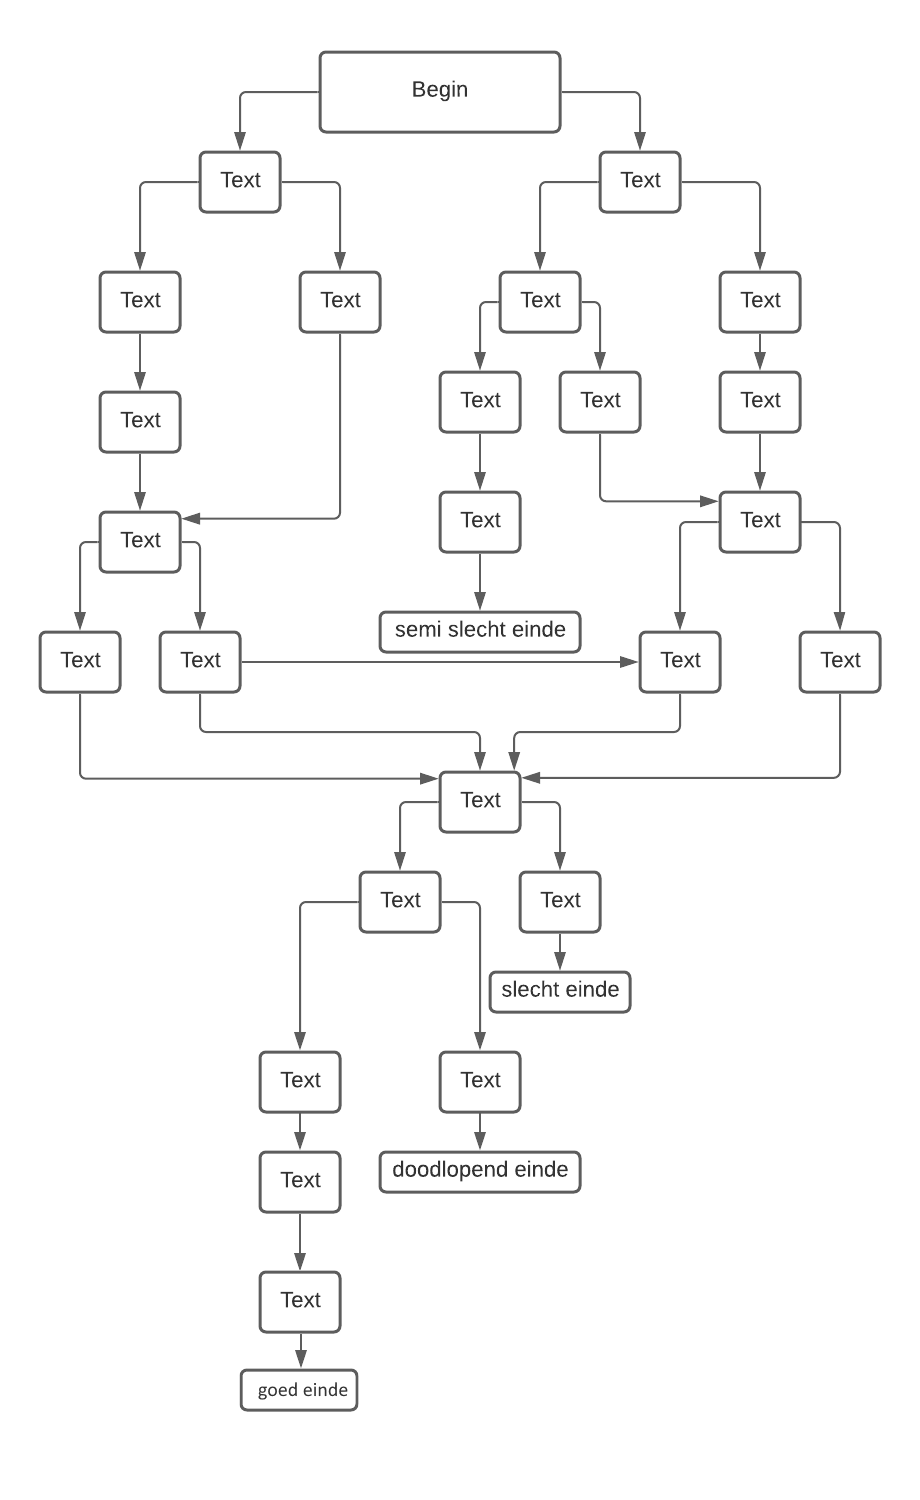
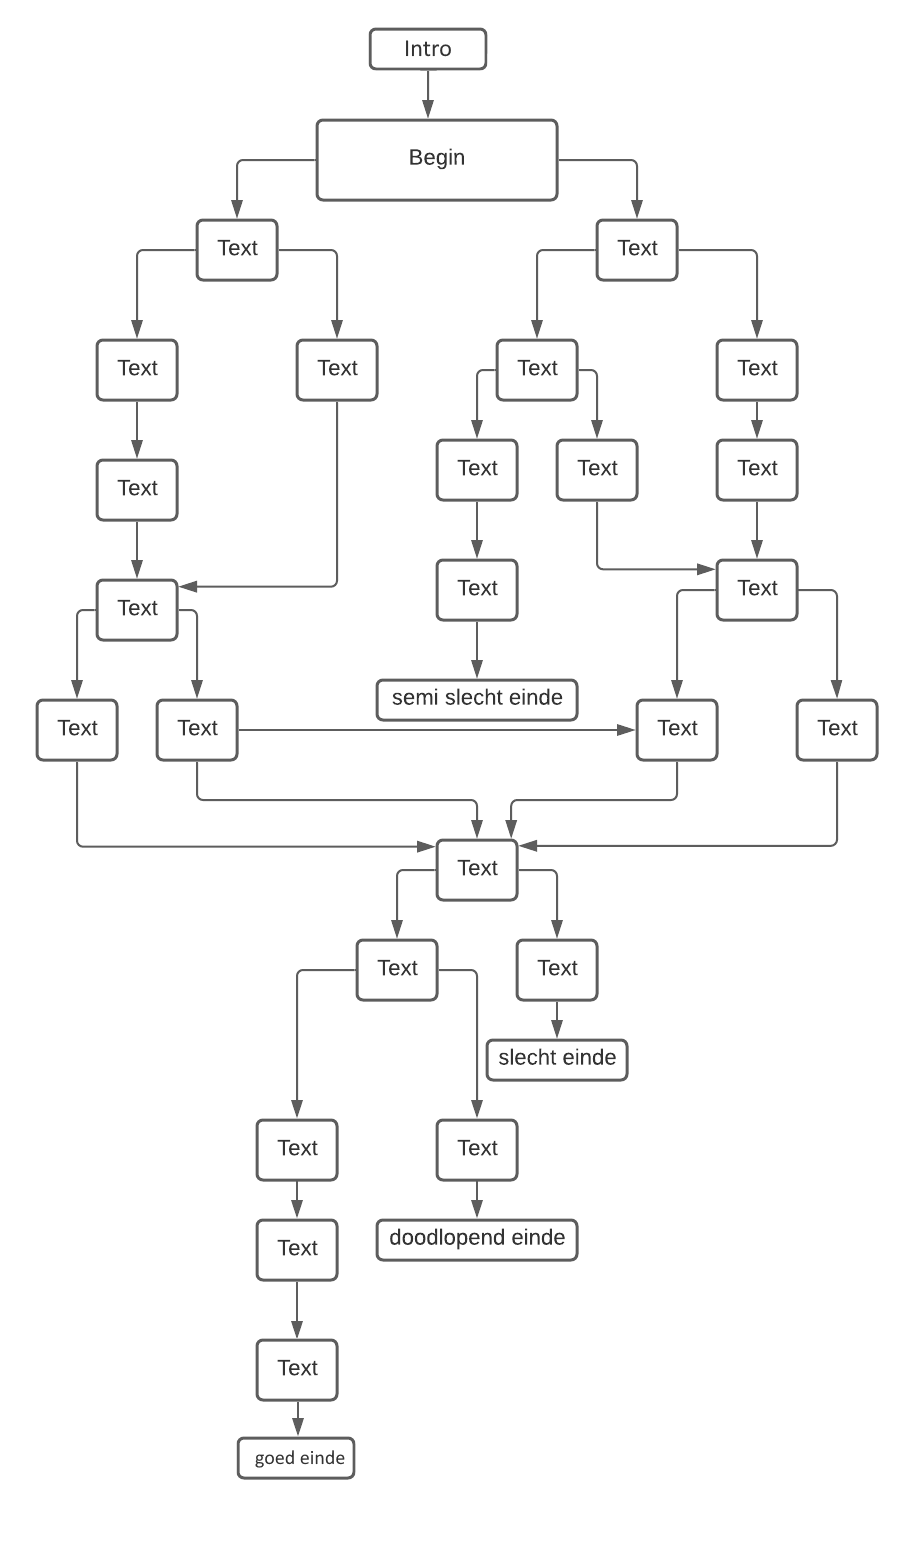
Fifth commit

Changed region(s): [[0.0304, 0.0, 0.9739, 0.9507]]

diff --git a/Beroepsopdracht.py b/Beroepsopdracht.py
@@ -10,7 +10,16 @@ Tekst3 = "Jullie stappen snel de auto in maar dan moet je snel beslissen waar je
 Tekst4 = "Jullie lopen richting de menigde en horen dat ze ook willen vluchten door een dreigbrief die zij hebben ontvangen Helaas gaan zij een ander kant op dan jij snel had gepland jullie lopen verder richting de bergen verderop."
 Tekst5 = "Jullie lopen naar de kleine groep mensen op straat sommige van hun hebben ook een dreigbrief ontvangen en willen ook zo snel mogelijk weg."
 Tekst5n2 = "ga je met ze mee of blijven jullie met z'n tweeen door reizen?"
+Tekst6 = "Julie rijden nu richting de grote stad maar onderweg kom je erachter dat je je beter laag kan houden en niet naar te drukke plekken moet gaan dus je keert om terug naar de bergen."
+Tekst7 = "Bij de bergen aangekomen moeten je beslissen of je om de bergen heen gaat reiden of over de berg op de voet"
+Tekst8 = "Bij de bergen aangekomen moet je kiezen of je er omheen gaat lopen of over de bergen heen gaat."
+Tekst9 = "Je besluit met de groep mee te gaan en je volgt ze richting de bergen."
+Tekst9n2 = "Bij de bergen aangekomen moeten jullie als groep kiezen of jullie over de bergen gaan of om de bergen heen jullie keizen om over de bergen te gaan."
+Tekst10 = "In de bergen worden jullie staande gehouden door een stel mensen van de taliban ze herkennen sommige van jullie van de dreigbriefen en jullie worden opgepakt en meegenomen."
+end =0
 vn = 0
+while end == 1:
+    print("Je ben opgepakt en meegenomen door de taliban jouw en jouw kinds lot worden in hun handen gelegd.")
 while vn == 0:
     print(Intro)
     print(Intro2)
@@ -53,7 +62,7 @@ while vn == 3:
         vn = 7
 while vn == 4:
     print(Tekst4)
-    vn = 10
+    vn = 8
 while vn == 5:
     print(Tekst5)
     print(Tekst5n2)
@@ -61,6 +70,39 @@ while vn == 5:
     print("B. Ga niet mee")
     ant = input()
     if ant == "A":
-        vn = 8
+        vn = 9
     elif ant == "B":
-        vn = 9      
+        vn = 8   
+while vn == 6:
+    print(Tekst6)
+    vn = 7
+while vn == 7:
+    print(Tekst7)
+    print("A. Om de bergen heen reiden")
+    print("B. Over de bergen lopen")
+    ant = input()
+    if ant == "A":
+        vn = 10
+    elif ant == "B":
+        vn = 11
+while vn == 8:
+    print(Tekst8)
+    print("A. Om de bergen heen lopen")
+    print("B. Over de bergen lopen")
+    ant = input()
+    if ant == "A":
+        vn = 12
+    elif ant == "B":
+        vn = 13
+while vn == 9:
+    print(Tekst9)
+    print(Tekst9n2)
+    print("B. Over de bergen lopen")
+    ant = input()
+    if ant == "A":
+        vn = 14
+    elif ant == "B":
+        vn = 15
+while vn == 10:
+    print(Tekst10)
+    end = 1
